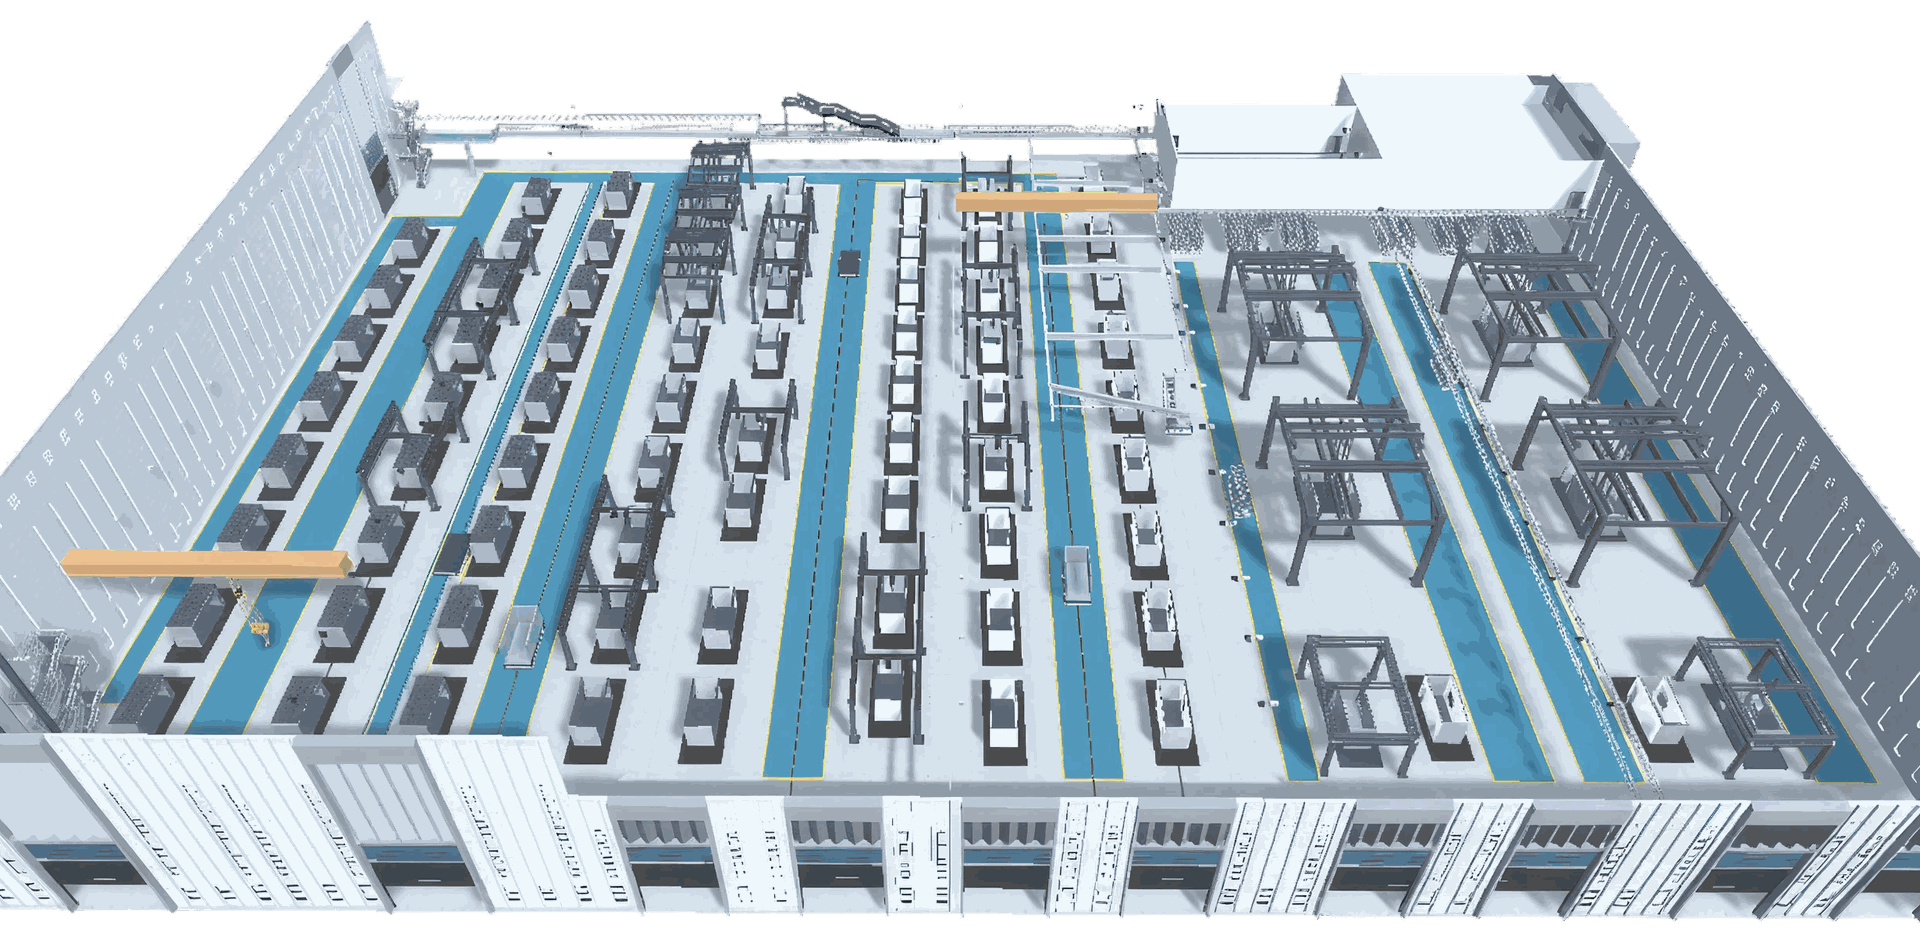
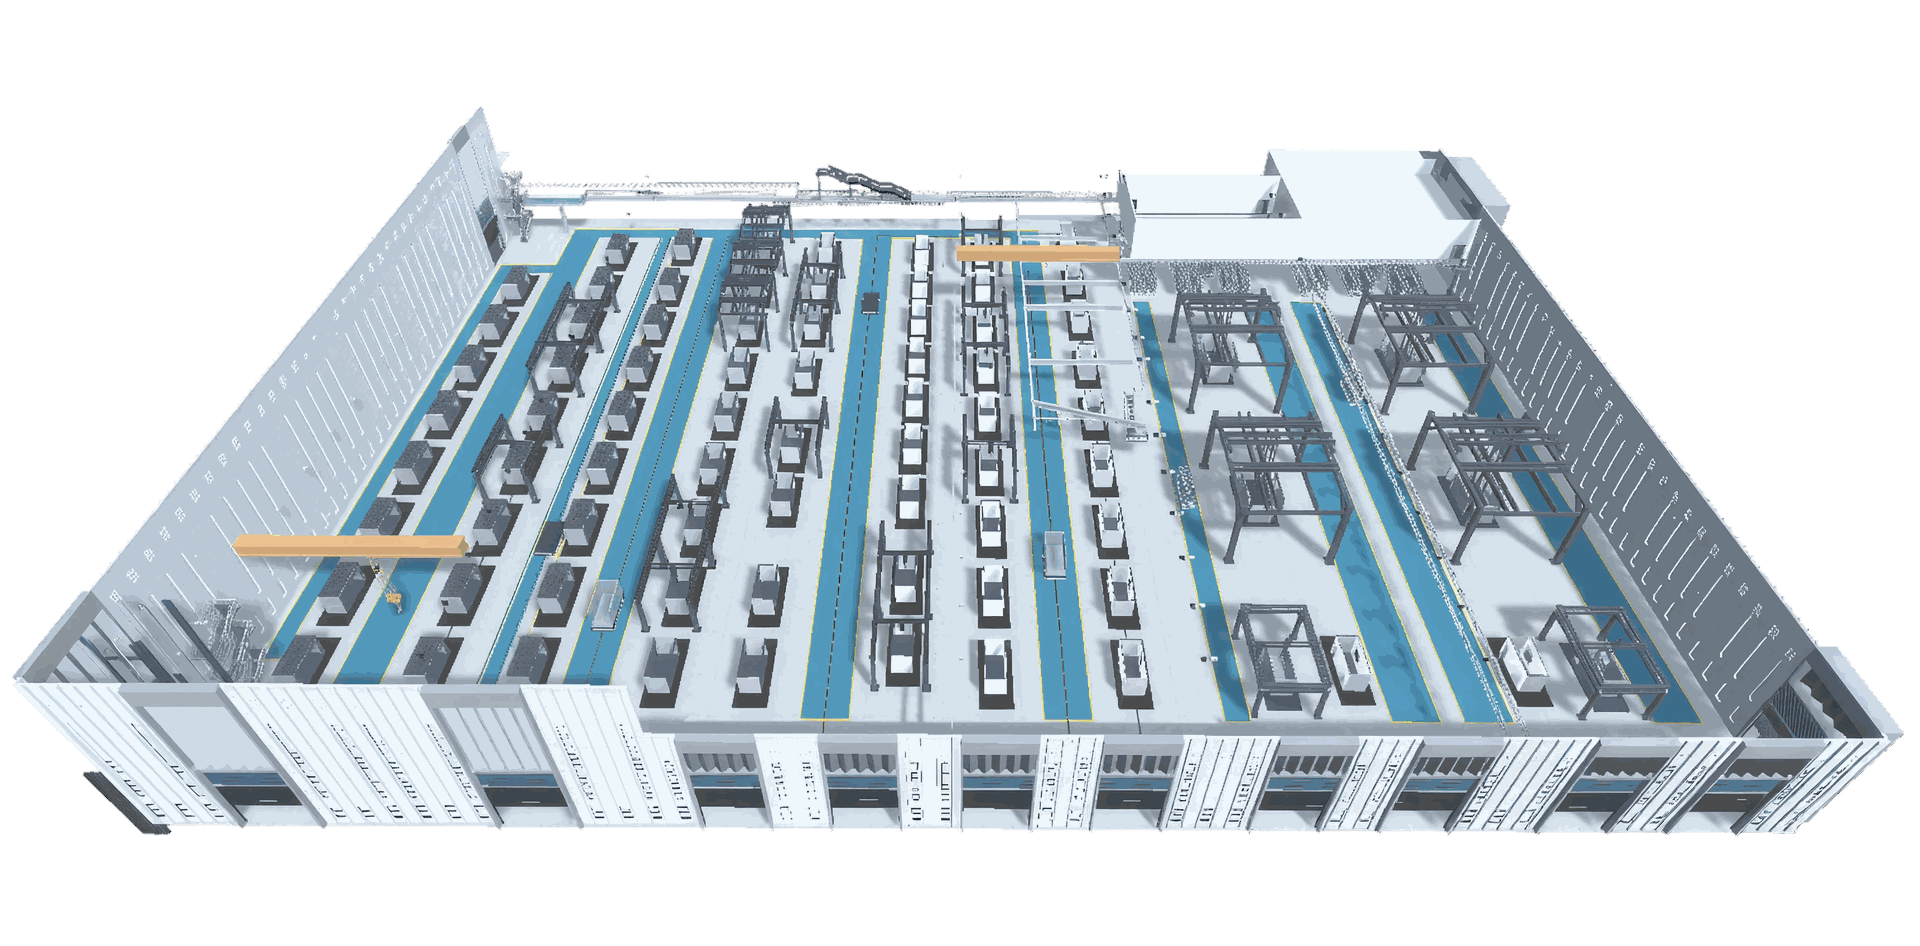
fix: 1F 产线底图改为整图完整显示
- 底图取消左右裁切：全宽 3042 缩放至 1920（1920x765），上下补透明对齐模型区比例后为 1920x946
- #modelImg 由 object-fit:cover 改为 contain，两侧墙体/整条产线完整可见
- 工位 / AGV / 机械臂坐标按新画布仿射换算（x*0.8085+9.57 / y*0.8087+9.51）
- 体积 0.40MB -> 0.29MB

diff --git a/HTML/16_指挥中心【交互原型】.html b/HTML/16_指挥中心【交互原型】.html
@@ -150,7 +150,7 @@ img{user-select:none}
 #modelWrap{flex:1;position:relative;background:#10254A;border:1px solid #1E4470;border-radius:6px;
   overflow:hidden;min-height:0}
 #modelLayer{position:absolute;inset:0;transition:transform .7s cubic-bezier(.4,0,.2,1)}
-#modelImg{position:absolute;inset:0;width:100%;height:100%;object-fit:cover}
+#modelImg{position:absolute;inset:0;width:100%;height:100%;object-fit:contain}
 #markerLayer{position:absolute;inset:0}
 #modelTag{position:absolute;left:106px;top:9px;z-index:6;display:flex;align-items:center;gap:7px;
   font-size:11px;color:#A6C6E8;letter-spacing:1px}
@@ -802,28 +802,28 @@ function tpl(o){ o=o||{}; return {
 var FLOORS = {
   f1:{ name:"1F 产线区域", tag:"脉动产线 · 1F", img:IMG+"u71_south.png", mul:1, off:{pct:0},
     stations:[
-      mkSta("P01","钢筋网片加工","RI-01",20.0,46.2,"运行",tpl({progress:88,output:96,plan:110,takt:"28min 10s",step:5,module:"MP20261019002"})),
-      mkSta("P02","底板混凝土平整","RI-02",24.0,36.6,"运行",tpl({progress:64,output:71,plan:110,takt:"35min 02s",step:3,module:"MP20261019003"})),
-      mkSta("P03","地砖铺贴","RI-03",31.6,41.0,"待机",tpl({progress:41,output:45,plan:110,takt:"42min 18s",step:2,module:"MP20261019004",start:"09:30"})),
-      mkSta("P04","界面剂/腻子喷涂","RI-04",34.4,50.2,"运行",tpl({progress:77,output:85,plan:110,takt:"30min 45s",step:4,module:"MP20261019005"})),
-      mkSta("P05","墙面腻子打磨","RI-05",42.4,44.6,"故障",tpl({online:82,oee:61.2,run:4,wait:1,err:2,progress:33,output:36,plan:110,takt:"—",step:3,module:"MP20261019006"})),
-      mkSta("P06","墙面底漆喷涂","RI-06",55.8,40.4,"运行",tpl({progress:59,output:65,plan:110,takt:"33min 26s",step:3,module:"MP20261019007"})),
-      mkSta("P07","墙板拼装","ADV-01",67.0,34.6,"运行",tpl({})),
-      mkSta("P08","墙板焊接","ADV-02",78.5,31.0,"运行",tpl({progress:81,output:89,plan:110,takt:"29min 33s",step:4,module:"MP20261019008"})),
-      mkSta("P09","窗框安装·打胶","ADV-03",82.0,50.0,"待机",tpl({progress:52,output:57,plan:110,takt:"36min 51s",step:2,module:"MP20261019009",start:"10:10"})),
-      mkSta("P10","洁具柜体安装","ADV-04",70.0,53.0,"离线",tpl({online:0,oee:0,run:0,wait:0,err:0,progress:12,output:13,plan:110,takt:"—",step:1,module:"MP20261019010"})),
-      mkSta("P11","顶板安装","ADV-05",70.0,71.0,"运行",tpl({progress:68,output:75,plan:110,takt:"31min 07s",step:3,module:"MP20261019011"})),
-      mkSta("P12","成品下线·质检","QC-01",87.0,70.0,"运行",tpl({progress:93,output:102,plan:110,takt:"26min 40s",step:5,module:"MP20261019012"}))
+      mkSta("P01","钢筋网片加工","RI-01",25.7,46.9,"运行",tpl({progress:88,output:96,plan:110,takt:"28min 10s",step:5,module:"MP20261019002"})),
+      mkSta("P02","底板混凝土平整","RI-02",29,39.1,"运行",tpl({progress:64,output:71,plan:110,takt:"35min 02s",step:3,module:"MP20261019003"})),
+      mkSta("P03","地砖铺贴","RI-03",35.1,42.7,"待机",tpl({progress:41,output:45,plan:110,takt:"42min 18s",step:2,module:"MP20261019004",start:"09:30"})),
+      mkSta("P04","界面剂/腻子喷涂","RI-04",37.4,50.1,"运行",tpl({progress:77,output:85,plan:110,takt:"30min 45s",step:4,module:"MP20261019005"})),
+      mkSta("P05","墙面腻子打磨","RI-05",43.9,45.6,"故障",tpl({online:82,oee:61.2,run:4,wait:1,err:2,progress:33,output:36,plan:110,takt:"—",step:3,module:"MP20261019006"})),
+      mkSta("P06","墙面底漆喷涂","RI-06",54.7,42.2,"运行",tpl({progress:59,output:65,plan:110,takt:"33min 26s",step:3,module:"MP20261019007"})),
+      mkSta("P07","墙板拼装","ADV-01",63.7,37.5,"运行",tpl({})),
+      mkSta("P08","墙板焊接","ADV-02",73,34.6,"运行",tpl({progress:81,output:89,plan:110,takt:"29min 33s",step:4,module:"MP20261019008"})),
+      mkSta("P09","窗框安装·打胶","ADV-03",75.9,49.9,"待机",tpl({progress:52,output:57,plan:110,takt:"36min 51s",step:2,module:"MP20261019009",start:"10:10"})),
+      mkSta("P10","洁具柜体安装","ADV-04",66.2,52.4,"离线",tpl({online:0,oee:0,run:0,wait:0,err:0,progress:12,output:13,plan:110,takt:"—",step:1,module:"MP20261019010"})),
+      mkSta("P11","顶板安装","ADV-05",66.2,66.9,"运行",tpl({progress:68,output:75,plan:110,takt:"31min 07s",step:3,module:"MP20261019011"})),
+      mkSta("P12","成品下线·质检","QC-01",79.9,66.1,"运行",tpl({progress:93,output:102,plan:110,takt:"26min 40s",step:5,module:"MP20261019012"}))
     ],
     agvs:[
-      {id:"1#",x:72.0,y:34.0,status:"运行",batt:86,task:"配送 WP20261019007 → ADV-01",path:[[72,34],[75.5,37],[72,40],[68.5,37],[72,34]],sp:0.0045},
-      {id:"2#",x:56.0,y:42.0,status:"运行",batt:72,task:"配送钢筋网片 → RI-01",path:[[56,42],[59.5,45],[56,48],[52.5,45],[56,42]],sp:0.004},
-      {id:"3#",x:48.5,y:36.0,status:"充电",batt:23,task:"返回充电桩",path:[[48.5,36],[52,39],[48.5,42],[45,39],[48.5,36]],sp:0.0032},
-      {id:"4#",x:40.0,y:46.0,status:"运行",batt:64,task:"转运地砖至 RI-03",path:[[40,46],[43.5,49],[40,52],[36.5,49],[40,46]],sp:0.0038},
-      {id:"5#",x:30.0,y:45.0,status:"运行",batt:91,task:"配送腻子 → RI-04",path:[[30,45],[33.5,48],[30,51],[26.5,48],[30,45]],sp:0.0042},
-      {id:"6#",x:22.0,y:50.0,status:"空闲",batt:55,task:"待命",path:[[22,50],[25.5,53],[22,56],[18.5,53],[22,50]],sp:0.003}
+      {id:"1#",x:67.8,y:37,status:"运行",batt:86,task:"配送 WP20261019007 → ADV-01",path:[[67.8,37],[70.6,39.4],[67.8,41.9],[65,39.4],[67.8,37]],sp:0.0045},
+      {id:"2#",x:54.9,y:43.5,status:"运行",batt:72,task:"配送钢筋网片 → RI-01",path:[[54.9,43.5],[57.7,45.9],[54.9,48.3],[52,45.9],[54.9,43.5]],sp:0.004},
+      {id:"3#",x:48.8,y:38.6,status:"充电",batt:23,task:"返回充电桩",path:[[48.8,38.6],[51.6,41.1],[48.8,43.5],[46,41.1],[48.8,38.6]],sp:0.0032},
+      {id:"4#",x:41.9,y:46.7,status:"运行",batt:64,task:"转运地砖至 RI-03",path:[[41.9,46.7],[44.7,49.1],[41.9,51.6],[39.1,49.1],[41.9,46.7]],sp:0.0038},
+      {id:"5#",x:33.8,y:45.9,status:"运行",batt:91,task:"配送腻子 → RI-04",path:[[33.8,45.9],[36.7,48.3],[33.8,50.8],[31,48.3],[33.8,45.9]],sp:0.0042},
+      {id:"6#",x:27.4,y:49.9,status:"空闲",batt:55,task:"待命",path:[[27.4,49.9],[30.2,52.4],[27.4,54.8],[24.5,52.4],[27.4,49.9]],sp:0.003}
     ],
-    arms:[[31.0,34.0],[34.6,37.4],[43.2,44.8],[51.6,33.6],[69.6,44.6]] },
+    arms:[[34.6,37],[37.5,39.8],[44.5,45.7],[51.3,36.7],[65.9,45.6]] },
   f2:{ name:"2F 拼装区域", tag:"拼装区 · 2F", img:null, mul:0.63, off:{pct:2},
     stations:[
       mkSta("S01","墙板拼装台 A","ADV-01",24,30,"运行",tpl({progress:74,output:82,plan:110,takt:"31min 12s",step:4,module:"MP20261019021"})),

diff --git a/README.md b/README.md
@@ -76,7 +76,7 @@
 ### 三、数字孪生场景区
 
 - **楼层切换**：1F 产线区域 / 2F 拼装区域 / 3F，模型画面与左右看板数据同步联动
-- **主车间底图**：1F 使用朝南视角产线模型渲染图（`images/13_4指挥中心【有交互】/u71_south.png`），按 1013×499 模型区比例预裁切，工位 / AGV / 机械臂坐标按该视角重新标定
+- **主车间底图**：1F 使用朝南视角产线模型渲染图（`images/13_4指挥中心【有交互】/u71_south.png`），**整图完整显示**（`object-fit:contain`，上下补透明对齐模型区比例，不裁切两侧墙体），工位 / AGV / 机械臂坐标按该视角标定
 - **场景标记**：12 个工作站 + 6 台 AGV 空间定位标记，状态色实时区分运行 / 待机 / 故障
 - **生产详情弹窗**：点击工作站标记打开弹窗，含任务详情 / 设备详情 / 物流调度 / 质量详情 / 能耗详情五个统计页签（详见下节）
 - **视角工具**：归位、视角切换（默认/环视/顶视）、图层对象（AGV / 工作站 / 机械臂显隐）
